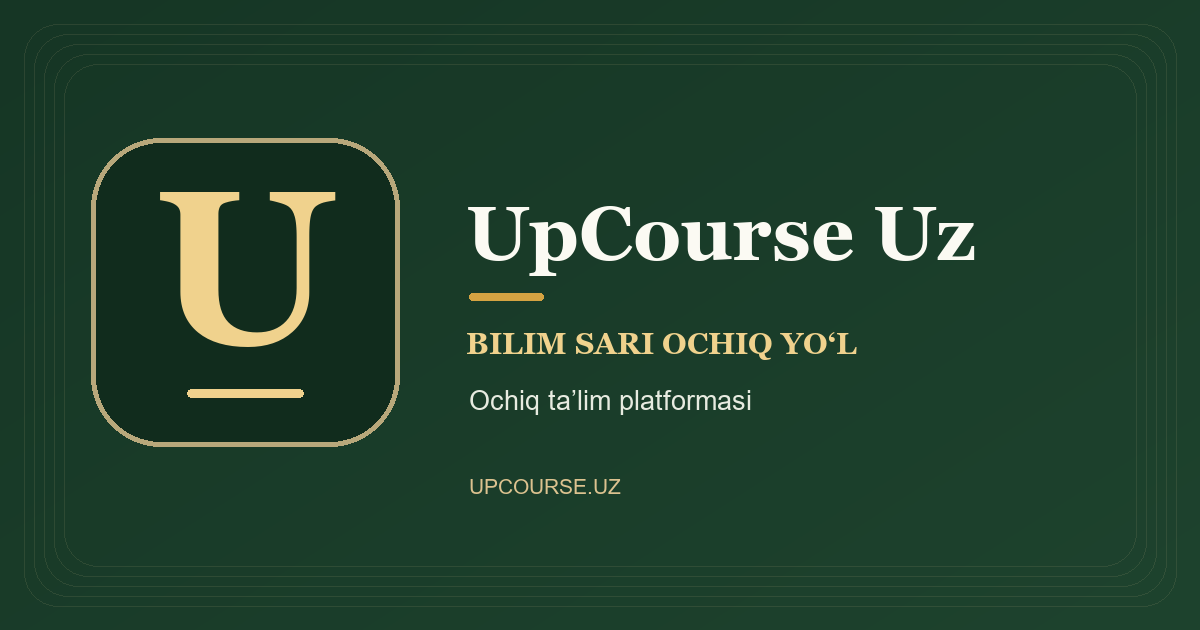
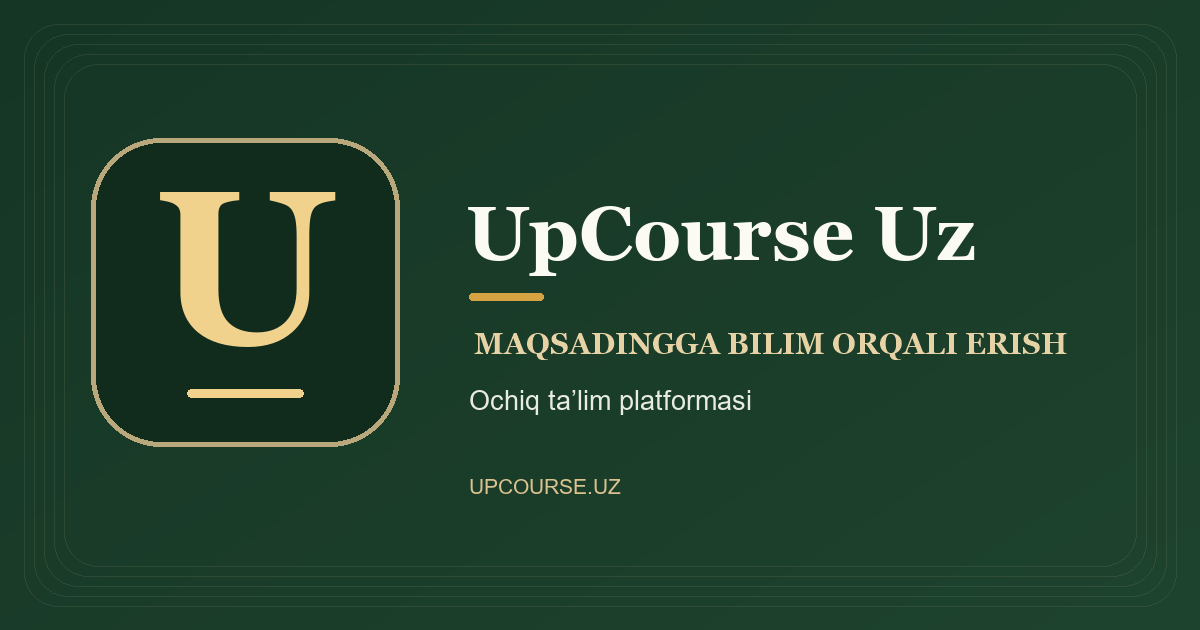
Update social preview slogan

Changed region(s): [[0.37, 0.5127, 0.8942, 0.573]]

diff --git a/index.html b/index.html
@@ -65,7 +65,7 @@
       property="og:description"
       content="Kurslar yarating, testlar tuzing va jonli (guruh) testlar orqali bilim tekshiring — UpCourse Uz'da."
     />
-    <meta property="og:image" content="https://www.upcourse.uz/og-image.png" />
+    <meta property="og:image" content="https://www.upcourse.uz/og-image.png?v=2" />
     <meta property="og:image:width" content="1200" />
     <meta property="og:image:height" content="630" />
 
@@ -76,7 +76,7 @@
       name="twitter:description"
       content="Kurslar yarating, testlar tuzing va jonli (guruh) testlar orqali bilim tekshiring — UpCourse Uz'da."
     />
-    <meta name="twitter:image" content="https://www.upcourse.uz/og-image.png" />
+    <meta name="twitter:image" content="https://www.upcourse.uz/og-image.png?v=2" />
 
     <!-- ==== Faviconlar (logo) ==== -->
     <link rel="icon" type="image/svg+xml" href="/favicon.svg" />
